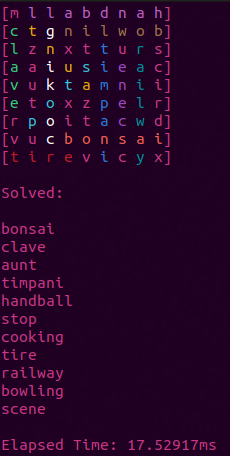
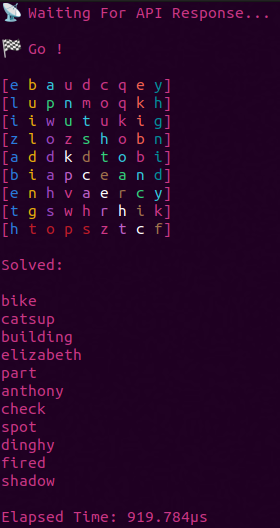
optimization

Changed region(s): [[0.0, 0.0, 0.8826, 0.4605], [0.0, 0.4912, 0.3043, 0.9211], [0.0, 0.9518, 0.9435, 1.0]]

diff --git a/src/wordsearch.go b/src/wordsearch.go
@@ -41,11 +41,12 @@ var Light string = "9"
 
 func (w *WordSearch) GetWordSearch() {
 	Clear()
-	fmt.Println("📡 Waiting For API Response...")
+	fmt.Println("📡 Waiting For API Response...\n")
 	api, _ := http.Get("https://shadify.dev/api/wordsearch/generator")
 	defer api.Body.Close()
 	data, _ := ioutil.ReadAll(api.Body)
 	json.Unmarshal(data, &w)
+	fmt.Println("🏁 Go !\n")
 }
 
 func (d *DisplayedGrid) CopyGrid() {

diff --git a/src/search_lower_left.go b/src/search_lower_left.go
@@ -13,7 +13,7 @@ func SearchLowerLeft(x, y, wordCount int, word, colums string, wordFound bool) b
 			for i := 0; i < count; i++ {
 				CopiedGrid.DispGrid[y+i][x-i] = "\033[" + Light + "" + Color + "m" + CopiedGrid.DispGrid[y+i][x-i] + "\033[0m"
 			}
-			CopiedGrid.DisplayGrid()
+			//CopiedGrid.DisplayGrid()
 			Save = append(Save, word)
 			wordFound = true
 		}

diff --git a/src/search_lower_right.go b/src/search_lower_right.go
@@ -13,7 +13,7 @@ func SearchLowerRight(x, y, wordCount int, word, colums string, wordFound bool) 
 			for i := 0; i < count; i++ {
 				CopiedGrid.DispGrid[y+i][x+i] = "\033[" + Light + "" + Color + "m" + CopiedGrid.DispGrid[y+i][x+i] + "\033[0m"
 			}
-			CopiedGrid.DisplayGrid()
+			//CopiedGrid.DisplayGrid()
 			Save = append(Save, word)
 			wordFound = true
 		}

diff --git a/src/search_upper_left.go b/src/search_upper_left.go
@@ -13,7 +13,7 @@ func SearchUpperLeft(x, y, wordCount int, word, colums string, wordFound bool) b
 			for i := 0; i < count; i++ {
 				CopiedGrid.DispGrid[y-i][x-i] = "\033[" + Light + "" + Color + "m" + CopiedGrid.DispGrid[y-i][x-i] + "\033[0m"
 			}
-			CopiedGrid.DisplayGrid()
+			//CopiedGrid.DisplayGrid()
 			Save = append(Save, word)
 			wordFound = true
 		}

diff --git a/src/search_upper_right.go b/src/search_upper_right.go
@@ -13,7 +13,7 @@ func SearchUpperRight(x, y, wordCount int, word, colums string, wordFound bool) 
 			for i := 0; i < count; i++ {
 				CopiedGrid.DispGrid[y-i][x+i] = "\033[" + Light + "" + Color + "m" + CopiedGrid.DispGrid[y-i][x+i] + "\033[0m"
 			}
-			CopiedGrid.DisplayGrid()
+			//CopiedGrid.DisplayGrid()
 			Save = append(Save, word)
 			wordFound = true
 		}

diff --git a/src/search_down.go b/src/search_down.go
@@ -13,7 +13,7 @@ func SearchDown(x, y, wordCount int, word, colums string, wordFound bool) bool {
 			for i := 0; i < count; i++ {
 				CopiedGrid.DispGrid[y+i][x] = "\033[" + Light + "" + Color + "m" + CopiedGrid.DispGrid[y+i][x] + "\033[0m"
 			}
-			CopiedGrid.DisplayGrid()
+			//CopiedGrid.DisplayGrid()
 			Save = append(Save, word)
 			wordFound = true
 		}

diff --git a/src/search_left.go b/src/search_left.go
@@ -13,7 +13,7 @@ func SearchLeft(x, y, wordCount int, word, colums string, wordFound bool) bool {
 			for i := 0; i < count; i++ {
 				CopiedGrid.DispGrid[y][x-i] = "\033[" + Light + "" + Color + "m" + CopiedGrid.DispGrid[y][x-i] + "\033[0m"
 			}
-			CopiedGrid.DisplayGrid()
+			//CopiedGrid.DisplayGrid()
 			Save = append(Save, word)
 			wordFound = true
 		}

diff --git a/src/search_right.go b/src/search_right.go
@@ -13,7 +13,7 @@ func SearchRight(x, y, wordCount int, word, colums string, wordFound bool) bool 
 			for i := 0; i < count; i++ {
 				CopiedGrid.DispGrid[y][x+i] = "\033[" + Light + "" + Color + "m" + CopiedGrid.DispGrid[y][x+i] + "\033[0m"
 			}
-			CopiedGrid.DisplayGrid()
+			//CopiedGrid.DisplayGrid()
 			Save = append(Save, word)
 			wordFound = true
 		}

diff --git a/src/search_up.go b/src/search_up.go
@@ -13,7 +13,7 @@ func SearchUp(x, y, wordCount int, word, colums string, wordFound bool) bool {
 			for i := 0; i < count; i++ {
 				CopiedGrid.DispGrid[y-i][x] = "\033[" + Light + "" + Color + "m" + CopiedGrid.DispGrid[y-i][x] + "\033[0m"
 			}
-			CopiedGrid.DisplayGrid()
+			//CopiedGrid.DisplayGrid()
 			Save = append(Save, word)
 			wordFound = true
 		}

diff --git a/src/solve.go b/src/solve.go
@@ -1,18 +1,8 @@
 package src
 
-import (
-	"fmt"
-)
-
 func Solve(wordCount int) {
-	//time.Sleep(100 * time.Millisecond)
-	Clear()
+	//Clear()
 	if found() {
-		CopiedGrid.DisplayGrid()
-		fmt.Println("Solved:\n")
-		for _, w := range Save {
-			fmt.Println(w)
-		}
 		return
 	} else {
 		wordFound := false

diff --git a/src/timetrack.go b/src/timetrack.go
@@ -7,5 +7,10 @@ import (
 
 func TimeTrack(start time.Time) {
 	elapsed := time.Since(start)
+	CopiedGrid.DisplayGrid()
+	fmt.Println("Solved:\n")
+	for _, w := range Save {
+		fmt.Println(w)
+	}
 	fmt.Printf("\nElapsed Time: %s\n", elapsed)
 }

diff --git a/src/clear.go b/src/clear.go
@@ -6,6 +6,7 @@ import (
 )
 
 func Clear() {
+	//time.Sleep(300 * time.Millisecond)
 	cmd := exec.Command("clear")
 	cmd.Stdout = os.Stdout
 	cmd.Run()
